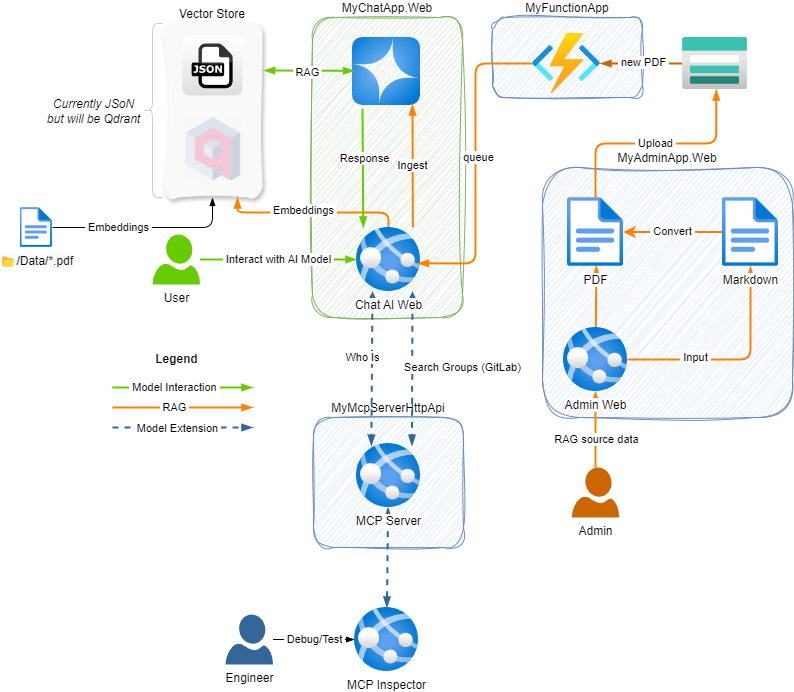
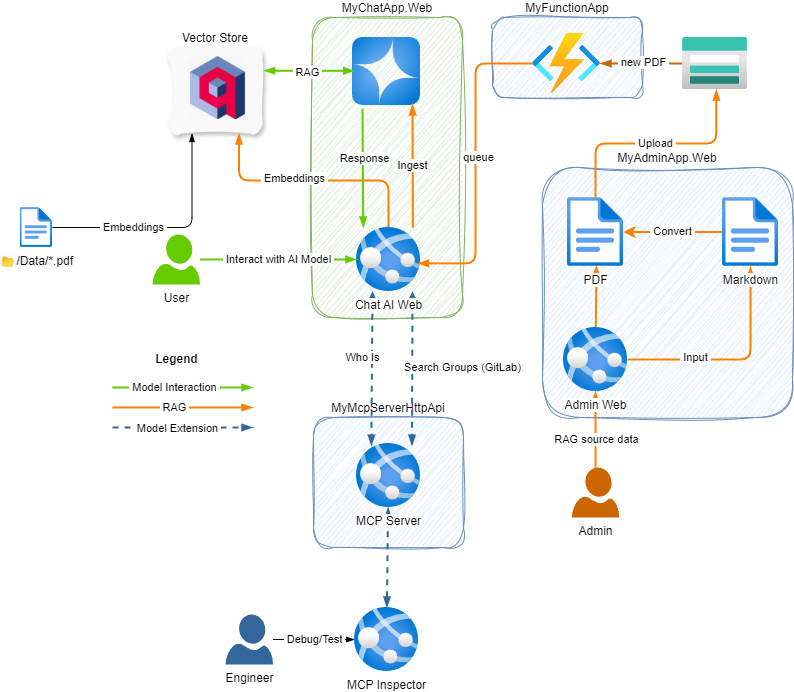
feat: Now uses Qdrant as vector store

diff --git a/MyChatApp.Web/Services/Ingestion/DataIngestor.cs b/MyChatApp.Web/Services/Ingestion/DataIngestor.cs
@@ -10,6 +10,8 @@ public class DataIngestor(
     IVectorStore vectorStore,
     IngestionCacheDbContext ingestionCacheDb)
 {
+    
+    
     public static async Task IngestDataAsync(IServiceProvider services, IIngestionSource source)
     {
         using var scope = services.CreateScope();
@@ -19,7 +21,7 @@ public class DataIngestor(
 
     public async Task IngestDataAsync(IIngestionSource source)
     {
-        var vectorCollection = vectorStore.GetCollection<string, SemanticSearchRecord>("data-mychatapp-ingested");
+        var vectorCollection = vectorStore.GetCollection<Guid, SemanticSearchRecord>(Globals.VectorCollectionName);
         await vectorCollection.CreateCollectionIfNotExistsAsync();
 
         var documentsForSource = ingestionCacheDb.Documents
@@ -49,7 +51,8 @@ public class DataIngestor(
             await foreach (var id in vectorCollection.UpsertBatchAsync(newRecords)) { }
 
             modifiedDoc.Records.Clear();
-            modifiedDoc.Records.AddRange(newRecords.Select(r => new IngestedRecord { Id = r.Key, DocumentId = modifiedDoc.Id }));
+            modifiedDoc.Records.AddRange(newRecords.Select(r => new IngestedRecord 
+                { Id = r.Key, DocumentId = modifiedDoc.Id }));
 
             if (ingestionCacheDb.Entry(modifiedDoc).State == EntityState.Detached)
             {
@@ -65,7 +68,7 @@ public class DataIngestor(
     // {
     //     logger.LogInformation("Processing blob URL: {blobUrl}", blobName);
     //     
-    //     var vectorCollection = vectorStore.GetCollection<string, SemanticSearchRecord>("data-mychatapp-ingested");
+    //     var vectorCollection = vectorStore.GetCollection<string, SemanticSearchRecord>(Globals.VectorCollectionName);
     //     await vectorCollection.CreateCollectionIfNotExistsAsync();
     //     
     //     var newRecords = await source.ProcessBlobUrlAsync(embeddingGenerator, blobName);
@@ -78,7 +81,7 @@ public class DataIngestor(
     {
         logger.LogInformation("Processing blob URL: {blobUrl}", blobName);
         
-        var vectorCollection = vectorStore.GetCollection<string, SemanticSearchRecord>("data-mychatapp-ingested");
+        var vectorCollection = vectorStore.GetCollection<Guid, SemanticSearchRecord>(Globals.VectorCollectionName);
         await vectorCollection.CreateCollectionIfNotExistsAsync();
         
         var documentsForSource = ingestionCacheDb.Documents

diff --git a/MyChatApp.Web/Program.cs b/MyChatApp.Web/Program.cs
@@ -9,6 +9,7 @@ using MyChatApp.Web.Services;
 using MyChatApp.Web.Services.Ingestion;
 using OpenAI;
 using System.ClientModel;
+using Microsoft.SemanticKernel.Connectors.Qdrant;
 
 var builder = WebApplication.CreateBuilder(args);
 builder.AddServiceDefaults();
@@ -24,8 +25,10 @@ var ghModelsClient = new OpenAIClient(credential, openAIOptions);
 var chatClient = ghModelsClient.GetChatClient("gpt-4o-mini").AsIChatClient();
 var embeddingGenerator = ghModelsClient.GetEmbeddingClient("text-embedding-3-small").AsIEmbeddingGenerator();
 
-var vectorStore = new JsonVectorStore(Path.Combine(AppContext.BaseDirectory, "vector-store"));
-builder.Services.AddSingleton<IVectorStore>(vectorStore);
+// Commented out as now using Qdrant
+// var vectorStore = new JsonVectorStore(Path.Combine(AppContext.BaseDirectory, "vector-store"));
+// builder.Services.AddSingleton<IVectorStore>(vectorStore);
+
 builder.Services.AddScoped<DataIngestor>();
 builder.Services.AddSingleton<SemanticSearch>();
 builder.AddSqliteDbContext<IngestionCacheDbContext>("ingestionCache");
@@ -35,24 +38,10 @@ builder.Services.AddSingleton<McpService>();
 builder.AddAzureBlobClient("blobs");
 builder.AddAzureQueueClient("queues");
 builder.Services.AddHostedService<PdfQueueService>();
-//
-// // Register BlobContainerClient for the "blobs" container from Aspire
-// builder.Services.AddSingleton(sp =>
-// {
-//     var blobServiceClient = sp.GetRequiredService<BlobServiceClient>();
-//     var config = sp.GetRequiredService<IConfiguration>();
-//     var containerName = config["Azure:Storage:Blobs:ContainerName"] ?? "blobs";
-//     return blobServiceClient.GetBlobContainerClient(containerName);
-// });
 
-// Register AzureBlobPdfSource for DI
-// builder.Services.AddScoped<IIngestionSource, AzureBlobPdfSource>(sp =>
-// {
-//     var containerClient = sp.GetRequiredService<BlobContainerClient>();
-//     var config = sp.GetRequiredService<IConfiguration>();
-//     var containerName = config["Azure:Storage:Blobs:ContainerName"] ?? "blobs";
-//     return new AzureBlobPdfSource(containerClient, containerName);
-// });
+// Add Qdrant (have commented out above the JsonVectorStore)
+builder.AddQdrantClient("vectordb");
+builder.Services.AddSingleton<IVectorStore, QdrantVectorStore>();
 
 var app = builder.Build();
 IngestionCacheDbContext.Initialize(app.Services);

diff --git a/MyChatApp.Web/Services/Ingestion/AzureBlobPdfSource.cs b/MyChatApp.Web/Services/Ingestion/AzureBlobPdfSource.cs
@@ -70,7 +70,7 @@ public class AzureBlobPdfSource : IIngestionSource
         var embeddings = await embeddingGenerator.GenerateAsync(paragraphs.Select(c => c.Text));
         return paragraphs.Zip(embeddings).Select((pair, index) => new SemanticSearchRecord
         {
-            Key = $"{Path.GetFileNameWithoutExtension(documentId)}_{pair.First.PageNumber}_{pair.First.IndexOnPage}",
+            Key = Guid.CreateVersion7(), // $"{Path.GetFileNameWithoutExtension(documentId)}_{pair.First.PageNumber}_{pair.First.IndexOnPage}",
             FileName = documentId,
             PageNumber = pair.First.PageNumber,
             Text = pair.First.Text,
@@ -89,7 +89,7 @@ public class AzureBlobPdfSource : IIngestionSource
         var embeddings = await embeddingGenerator.GenerateAsync(paragraphs.Select(c => c.Text));
         return paragraphs.Zip(embeddings).Select((pair, index) => new SemanticSearchRecord
         {
-            Key = $"{Path.GetFileNameWithoutExtension(blobName)}_{pair.First.PageNumber}_{pair.First.IndexOnPage}",
+            Key = Guid.CreateVersion7(),// $"{Path.GetFileNameWithoutExtension(blobName)}_{pair.First.PageNumber}_{pair.First.IndexOnPage}",
             FileName = blobName,
             PageNumber = pair.First.PageNumber,
             Text = pair.First.Text,

diff --git a/MyChatApp.AppHost/Program.cs b/MyChatApp.AppHost/Program.cs
@@ -13,8 +13,10 @@ var storage = builder.AddAzureStorage("blobStorage").RunAsEmulator();
 var blobs = storage.AddBlobs("blobs");
 var queues = storage.AddQueues("queues");
 
-
 var mcpServer = builder.AddProject<Projects.MyMcpServerHttpApi>("mcp-server").WithExternalHttpEndpoints();
+
+// Not including WithDataVolume here as Blob Storage is using emulator do Blobs not persisted and therefore not exist in vector store
+var qdrant = builder.AddQdrant("vectordb");
 
 var webApp = builder.AddProject<Projects.MyChatApp_Web>("aichatweb-app");
 webApp.WithReference(openai);
@@ -25,6 +27,7 @@ webApp
     .WaitFor(storage)
     .WaitFor(blobs).WithReference(blobs)
     .WaitFor(queues).WithReference(queues)
+    .WaitFor(qdrant).WithReference(qdrant)
     .WaitFor(ingestionCache);
 
 var adminWeb = builder.AddProject<Projects.MyAdminApp_Web>("admin-web")

diff --git a/MyChatApp.Web/Services/SemanticSearch.cs b/MyChatApp.Web/Services/SemanticSearch.cs
@@ -10,7 +10,7 @@ public class SemanticSearch(
     public async Task<IReadOnlyList<SemanticSearchRecord>> SearchAsync(string text, string? filenameFilter, int maxResults)
     {
         var queryEmbedding = await embeddingGenerator.GenerateEmbeddingVectorAsync(text);
-        var vectorCollection = vectorStore.GetCollection<string, SemanticSearchRecord>("data-mychatapp-ingested");
+        var vectorCollection = vectorStore.GetCollection<Guid, SemanticSearchRecord>(Globals.VectorCollectionName);
 
         var nearest = await vectorCollection.VectorizedSearchAsync(queryEmbedding, new VectorSearchOptions<SemanticSearchRecord>
         {

diff --git a/MyChatApp.Web/Services/Ingestion/PDFDirectorySource.cs b/MyChatApp.Web/Services/Ingestion/PDFDirectorySource.cs
@@ -57,7 +57,7 @@ public class PDFDirectorySource(string sourceDirectory) : IIngestionSource
 
         return paragraphs.Zip(embeddings).Select((pair, index) => new SemanticSearchRecord
         {
-            Key = $"{Path.GetFileNameWithoutExtension(documentId)}_{pair.First.PageNumber}_{pair.First.IndexOnPage}",
+            Key = Guid.CreateVersion7(), // $"{Path.GetFileNameWithoutExtension(documentId)}_{pair.First.PageNumber}_{pair.First.IndexOnPage}",
             FileName = documentId,
             PageNumber = pair.First.PageNumber,
             Text = pair.First.Text,

diff --git a/MyChatApp.Web/Services/SemanticSearchRecord.cs b/MyChatApp.Web/Services/SemanticSearchRecord.cs
@@ -5,7 +5,7 @@ namespace MyChatApp.Web.Services;
 public class SemanticSearchRecord
 {
     [VectorStoreRecordKey]
-    public required string Key { get; set; }
+    public required Guid Key { get; set; }
 
     [VectorStoreRecordData(IsFilterable = true)]
     public required string FileName { get; set; }

diff --git a/MyChatApp.Web/Services/Ingestion/IngestionCacheDbContext.cs b/MyChatApp.Web/Services/Ingestion/IngestionCacheDbContext.cs
@@ -39,6 +39,6 @@ public class IngestedDocument
 
 public class IngestedRecord
 {
-    public required string Id { get; set; }
+    public required Guid Id { get; set; }
     public required string DocumentId { get; set; }
 }

diff --git a/MyChatApp.Web/Globals.cs b/MyChatApp.Web/Globals.cs
@@ -1,0 +1,5 @@
+public static class Globals
+{
+    // public static readonly string VectorCollectionName = Guid.NewGuid().ToString();
+    public static readonly string VectorCollectionName = "data-mychatapp-ingested";
+}
